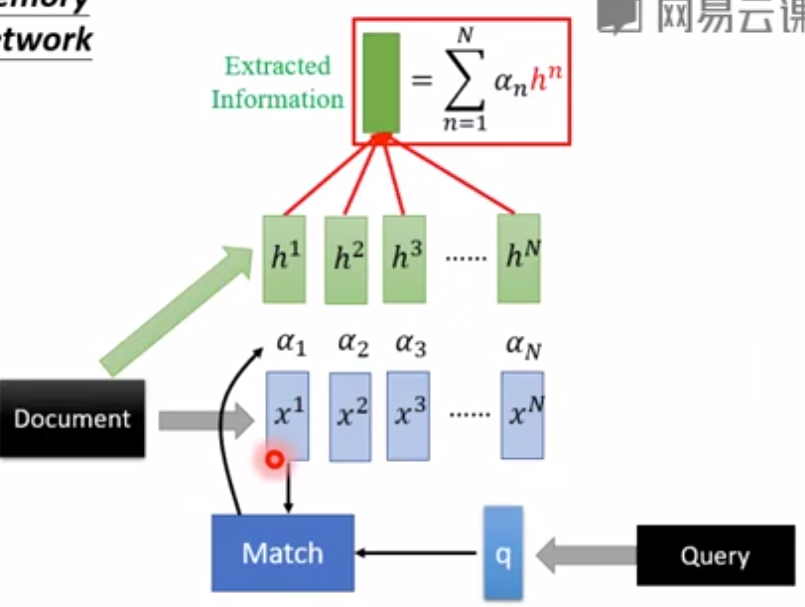
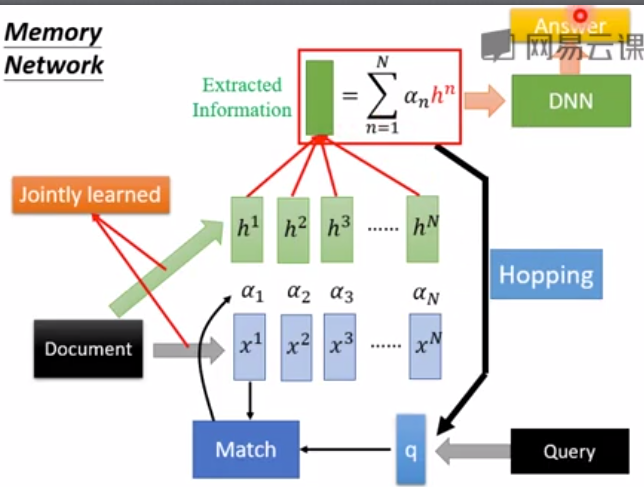
notes from li hong yi

diff --git a/Chapter8/7Strategies/1BatchNormalization.md b/Chapter8/7Strategies/1BatchNormalization.md
@@ -1,6 +1,4 @@
-> **[success] 批标准化的原理，from Ag**  
-对于只有一层的逻辑回归模型，对[输入的标准化](https://windmissing.github.io/Bible-DeepLearning/Chapter8/0Optimization.html)可以加速模型的学习。  
-对于有很多的DL模型，对中间结果z做标准化，也能起到类似的效果。  
+# 非常深的网络存在的问题
 
 批标准化~{cite?}是优化深度神经网络中最激动人心的最新创新之一。
 实际上它并不是一个优化算法，而是**一个自适应的重参数化的方法**，试图解决训练**非常深的模型**的困难。
@@ -12,7 +10,10 @@ w更新算法是在假设其它层w不变的情况下计算某一层的$\Delta w
 相邻层之间w的相互作用对最终结果有比较大的影响。  
 
 在其他层不改变的假设下，梯度用于如何更新每一个参数。
-在实践中，我们同时更新所有层。
+在实践中，我们同时更新所有层。  
+> **[success]**  
+![](/assets/images/Chapter8/9.png)  
+
 当我们进行更新时，可能会发生一些意想不到的结果，这是因为许多组合在一起的函数同时改变时，计算更新的假设是其他函数保持不变。
 举一个简单的例子，假设我们有一个深度神经网络，每一层只有一个单元，并且在每个隐藏层不使用激活函数：$\hat{y} = xw_1 w_2 w_3 \cdots w_l$。
 此处，$w_i$表示用于层$i$的权重。层$i$的输出是$h_i = h_{i-1} w_i$。
@@ -38,7 +39,7 @@ $$
 因此对于$n>2$的情况，建立$n$阶优化算法似乎是无望的。
 那么我们可以做些什么呢？
 
-<!-- % -- 309 -- -->
+# 引入批标准化方法
 
 批标准化提出了一种几乎可以重参数化所有深度网络的优雅方法。
 重参数化显著减少了多层之间协调更新的问题。  
@@ -48,6 +49,10 @@ $$
 
 批标准化可应用于网络的任何输入层或隐藏层。
 设$H$是需要标准化的某层的小批量激活函数，排布为设计矩阵，每个样本的激活出现在矩阵的每一行中。  
+> **[success]**  
+这里是不是翻译有问题，H不是一个函数，而是一个值。  
+H可以是计算出来的z或者a。  
+Ag建议是对z做batch norm。  
 
 为了标准化$H$，我们将其替换为
 $$
@@ -57,16 +62,15 @@ H' = \frac{H - \mu}{\sigma},
 $$
 
 其中$\mu$是包含每个单元均值的向量，$\sigma$是包含每个单元标准差的向量。
-此处的算术是基于广播向量$\mu$和向量$\sigma$应用于矩阵$H$的每一行。  
-> **[warning]**  问：H的每个元素都是函数，函数怎么会有均值和标准差？Ag视频中是对z做标准化，z和矩阵H是什么关系？    
+此处的算术是基于广播向量$\mu$和向量$\sigma$应用于矩阵$H$的每一行。    
 
 在每一行内，运算是逐元素的，因此$H_{i,j}$标准化为减去$\mu_j$再除以$\sigma_j$。  
 > **[success]**  
-$$
-H'_{ij} = \frac{H_{ij}-\mu_j}{\sigma_j}
-$$
+![](/assets/images/Chapter8/10.png)  
 
 网络的其余部分操作$H'$的方式和原网络操作$H$的方式一样。
+
+## 训练阶段
 
 在训练阶段，  
 $$
@@ -94,9 +98,11 @@ $\delta$用于防止分母为0
 这是批标准化方法的一个重大创新。
 以前的方法添加代价函数的惩罚，以鼓励单元标准化激活统计量，或是在每个梯度下降步骤之后重新标准化单元统计量。
 前者通常会导致不完全的标准化，而后者通常会显著地消耗时间，因为学习算法会反复改变均值和方差而标准化步骤会反复抵消这种变化。  
-> **[warning]** 后者和现在的方法有什么区别？  
+> **[warning]** 后者和现在的方法有什么区别？后者是在前向传播的过程中做标准化，而现在的方法是在反向传播中做标准化？    
 
 批标准化重参数化模型，以使一些单元在定义上就总是标准化的，巧妙地回避了这两个问题。
+
+## 测试阶段
 
 在测试阶段，$\mu$和$\sigma$可以被替换为训练阶段收集的运行均值。
 这使得模型可以对单一样本评估，而无需使用定义于整个小批量的$\mu$和$\sigma$。
@@ -105,6 +111,10 @@ $\delta$用于防止分母为0
 训练时，批标准化公式中所使用的均值和方差都是基于一个batch计算的。  
 但在测试阶段，如果只有一个测试用例，怎么批标准化？  
 答：基于指数衰减平均的方法来求测试用例的均值和方差。  
+
+# 效果
+
+## 优点：更易学习
 
 回顾例子$\hat{y} = x w_1 w_2 \cdots w_l$，我们看到，我们可以通过标准化$h_{l-1}$很大程度地解决了学习这个模型的问题。
 假设$x$采样自一个单位高斯分布，
@@ -119,6 +129,16 @@ $\delta$用于防止分母为0
 这些情况都是非常罕见的。
 没有标准化，几乎每一个更新都会对$h_{l-1}$的统计量有着极端的影响。
 因此，批标准化显著地使得模型更易学习。
+
+**批标准化的优点**：  
+（1）使学习更快。由于没有Covariate Shift问题，因为可以使用比较大的learning rate  
+（2）使网络更深  
+（3）less梯度消失/爆炸问题，对sigmoid类的激活函数尤其有效。  
+（4）受初始化的影响变小  
+（5）有一点点对抗overfitting的效果（顺便的作用）。  
+
+## 缺点：底层网络没有用
+
 在这个示例中，容易学习的代价是使得底层网络没有用。  
 > **[warning]** 使得底层网络没有用?  
 
@@ -160,8 +180,8 @@ $\delta$用于防止分母为0
 
 \chap?所述的卷积网络，在特征映射中每个空间位置同样地标准化$\mu$和$\sigma$是很重要的，能使特征映射的统计量在不同的空间位置，仍然保持相同。  
 
+> **[success] 批标准化的原理，from Ag**  
+对于只有一层的逻辑回归模型，对[输入的标准化](https://windmissing.github.io/Bible-DeepLearning/Chapter8/0Optimization.html)可以加速模型的学习。  
+对于有很多的DL模型，对中间结果z做标准化，也能起到类似的效果。  
 > **[success] 流程总结**  
 x --(W, b)--> z --($\beta$, $\gamma$)--> z' --(activate function)--> h ----> 下一层的x  
-**批标准化的优点**：  
-（1）使学习更快  
-（2）使网络更深

diff --git a/Chapter10/Attention.md b/Chapter10/Attention.md
@@ -23,38 +23,72 @@ From 李宏毅
 # Attention-based Model进阶版
 
 Sentence to vector can be jointly trained.  
+![](/assets/images/Chapter10/90.png)   
 
 ## 改进1
 
-![](/assets/images/Chapter10/90.png)   
 Document产生2个向量，分别是x和h。  
 第4步使用x计算match score，用于决定从哪些向量抽取信息。  
-第5步使用h生成最终被抽取的信息。  
+第5步使用h生成最终被抽取的信息。$\sum_i\alpha_i h_i$   
 
-## 改进2
-可读可写模型，58'21''，又叫Neural Turing Machine  
+## 改进2 hopping
 
-## 阅读理解
+根据当前的结果生成新的问题向量q  
+基于新的q再计算答案  
 
-### 文本QA
-1. 通过Semantic分析，将每个句子转成一个向量  
-2. 输入一个问题，由reading head controller决定，哪个句子与问题相关  
-3. 把相关的句子读进模型，产生output
-59'59''
+hopping可以做多次，hopping的次数可以是人为决定，也可以Machine自己决定ReasoNet。  
 
-### 视觉QA
+## 应用
 
+视觉问答  
 1. 模型读入一张图  
 2. 通过CNN，将每个小区域转成一个向量  
 3. 输入一个问题，由reading head controller决定，哪个区域与问题相关  
 4. 读入相关的区域，产生output
-1:02'36''
 
-### 语音QA
+文本QA
+1. 通过Semantic分析，将每个句子转成一个向量  
+2. 输入一个问题，由reading head controller决定，哪个句子与问题相关  
+3. 把相关的句子读进模型，产生output
 
-例如托福听力测试  
-1:04'17''  
-将语音识别、句义分析、attention的综合运用
+语音QA
+1. 例如托福听力测试  
+2. 将语音识别、句义分析、attention的综合运用  
+
+# Attention-based Model升级版（可读可写）
+
+![](/assets/images/Chapter10/91.png)   
+
+## Turing简化版
+
+![](/assets/images/Chapter10/92.png)   
+k: attention weight  
+e: 要清空的东西，attention越多的地方，清得越多  
+m：原来database里面的值  
+a：要放入的新的信息  
+$$
+m_2^i = m_1^i - \hat \alpha^i e \odot m_1 ^i + \hat \alpha^ia
+$$
+
+## Truing完整版
+
+又叫Neural Turing Machine  
+太复杂了，不想看  
+
+## Stack RNN
+
+![](/assets/images/Chapter10/93.png)   
+1. 假设memory中的值都以stack的形式存储  
+2. 读入stack的前几个值（相当于默认attention在前几个值上）  
+3. f输出三个值a1, a2, a3  
+另对原信息定义以下三个操作，每个操作分别基于原始信息做改变，分别得到向量v1, v2, v3  
+- Push：把Information放入Stack  
+- Pop：把stack顶值丢掉  
+- Nothing：不变
+v = v1 * a1 + v2 * a2 + v3 * a3  
+
+
+
 
 ---------------------------------------------------------
 

diff --git a/GAN/Condition.md b/GAN/Condition.md
@@ -1,0 +1,68 @@
+# 根据Text生成Image
+
+## 传统的监督学习方法
+
+![](/assets/images/GAN/1.png)  
+
+存在的问题：  
+同一个输入在database中可能同时对应多种输出。  
+训练的结果会输入各种可能的平均。所致结果很糊而不伦不类。  
+
+## Conditional GAN的学习方法
+
+生成网络G和鉴别网络D：  
+![](/assets/images/GAN/2.png)  
+
+存在的问题：  
+G只要产生出足够高质量的图像，就可以骗过D。但这个高质量的图像很可能入输入的条件无关。  
+高质量但与输入无关的图像也应该是false的图像。现在D无法鉴别这种情况。  
+最后G会生成高质量但无视输入的图像。  
+
+## 改进的Conditional GAN
+
+改进方法：  
+网络D的输入同时考虑G的输入c和G的输出x。  
+D的判断G输出是否合理的标准有：  
+（1）x是否高质量  
+（2）c和x是否match
+
+定义一个样本为{c, x}对，其中c是输入的条件，这里就是文本，x是生成的目标，这里就是指图像。  
+- part 1 训练D
+1. 从database中sample出m个positive样本。  
+2. 随机生成m个noise图像，配上step1中positive样本的文字，得到的是m个负样本。  
+3. 在从database中再sample出m个真实图像，配上step1中positive样本的文字，又得到的是m个负样本。  
+4. 更新D的参数以最大化：  
+V = 第1组样本的平均分 + （1-第2组样本的平均分） + （1-第3组样本的平均分）   
+- part 2 训练G  
+5. 生成m个随机图像z  
+6. 从database中随机sample出m个文本c  
+7. 更新G的参数，只(c, z)在D中的分数越高越好
+
+网络D的两种结构：  
+![](/assets/images/GAN/3.png)  
+
+## Stack GAN
+
+先生成小张图，再根据小张图生成大张图  
+
+# 根据Image生成Image
+
+例子：  
+![](/assets/images/GAN/4.png)  
+
+## 传统的监督学习方法
+
+同text to Image  
+
+## 条件GAN  
+
+同text to Image  
+
+## patch GAN
+
+当要生成的image很大时，让D每次只检查image的一小块。  
+
+# 其它应用
+
+用于语音增强  
+用于vedio生成  

diff --git a/SUMMARY.md b/SUMMARY.md
@@ -18,6 +18,7 @@
         * [6.3.1 ReLU及其扩展](Chapter6/3Hidden/1ReLU.md)
         * [6.3.2 logistic sigmoid与双曲正切函数](Chapter6/3Hidden/2SigmoidTanh.md)
         * [6.3.3 其他隐藏单元](Chapter6/3Hidden/3Other.md)
+        * [李宏毅补充 SELU](Chapter6/SELU.md)
     * [6.4 架构设计](Chapter6/4Architecture.md)
     * [6.5 反向传播和其他的微分算法](Chapter6/5Backprop/0Introduction.md)
         * [6.5.1 计算图](Chapter6/5Backprop/1ComputationalGraphs.md)
@@ -50,7 +51,6 @@
     * [李宏毅补充 Zero-Shot Training](Chapter7/ZeroShot.md)
     * [李宏毅补充 深度强化学习](Chapter7/Reinforce.md)
     * [李宏毅补充 深度自编码器](Chapter7/AutoEncoder.md)
-    * [李宏毅补充 深度生成模型](Chapter7/Generative.md)
 * [第8章 深度模型中的优化](Chapter8/0Optimization.md)
     * [8.1 学习和纯优化有什么不同](Chapter8/1Difference/0Difference.md)
         * [8.1.1 经验风险最小化](Chapter8/1Difference/1EmpiricalRiskMinimization.md)
@@ -98,6 +98,7 @@
     * [Ag补充  图像的定位分类问题](Chapter9/ClassificationWithLocalization.md)
     * [Ag补充 人脸识别问题](Chapter9/FaceDetection.md)
     * [Ag补充 风格迁移](Chapter9/Style.md)
+    * [李宏毅补充 Highway Network](Chapter9/Highway.md)
 * [第10章 序列建模：循环和递归网络](Chapter10/Introduction.md)
     * [10.1 展开计算图](Chapter10/1Unfolding.md)
     * [10.2 循环神经网络](Chapter10/2RNN/0RNN.md)
@@ -139,4 +140,9 @@
         * [11.4.1 手动选择超参数](Chapter11/4Hyperparameters/1Manual.md)
         * [11.4.3 网络搜索](Chapter11/4Hyperparameters/1Manual.md)
         * [11.4.4 随机搜索](Chapter11/4Hyperparameters/1Manual.md)
-    * [11.5 调试策略](Chapter11/5Debug.md)
+    * [11.5 调试策略](Chapter11/5Debug.md)  
+* 李宏毅补充 GAN
+    * [深度生成模型](GAN/Generative.md)
+    * [条件生成对抗网络](GAN/Condition.md)
+    * [非监督条件生成](GAN/unsupervised.md)
+    * [GAN的理论基础](GAN/Thoery.md)

diff --git a/Chapter9/Highway.md b/Chapter9/Highway.md
@@ -1,0 +1,31 @@
+# GRU VS Highway Netword  
+
+Highway Network基于GRU对Unit做了一些改进：  
+
+- GRU  
+![](/assets/images/Chapter9/34.png)   
+
+- Highway Network Unit  
+![](/assets/images/Chapter9/35.png)   
+
+主要改进为：  
+1. 去掉 Input $x^t$和Output $y^t$，只有第一个Unit有Input，最后一个Unit有Output  
+2. 输入$h^t$换成$a^{t-1}$  
+3. 去掉reset gate，保证$a^{t-1}$一定能进入下一个step  
+
+Highway Network Unit的计算过程：  
+$$
+\begin{aligned}
+h' = \sigma(W a^{t-1})  \\
+z = \sigma(W' a^{t-1})  \\
+a^t = z \odot a^{t-1} + (1-z)\odot h'
+\end{aligned}
+$$
+
+这相当于在layer方向增加gate，以达到使layer更深的目的。  
+如果只接将z设置成0.5，就成了[残差网络](https://windmissing.github.io/Bible-DeepLearning/Chapter9/ResNet.html)。  
+![](/assets/images/Chapter9/36.png)  
+
+Highway Network可以看作是Network自动学到要有多少hidden layer。  
+![](/assets/images/Chapter9/37.png)   
+根据data决定实际使用几层layer。  

diff --git a/Chapter6/3Hidden/SELU.md b/Chapter6/3Hidden/SELU.md
@@ -1,0 +1,20 @@
+SELU是一种自带[Normalization](https://windmissing.github.io/Bible-DeepLearning/Chapter8/7Strategies/1BatchNormalization.html)效果的Unit。  
+
+ELU = Exponential Linear Unit  
+SELU = Scaled ELU  
+![](/assets/images/Chapter6/23.png)  
+
+$$
+a = 
+\begin{cases}
+\lambda z && z\ge0 \\
+\lambda\alpha(e^z-1) && z < 0
+\end{cases}
+$$
+
+$\alpha$和$\lambda$都是某个固定值。  
+
+问：为什么说SELU自带Normalization功能？  
+答：假设x的均值为0，方差为1，那么经过z=wx, a=SELU(z)的运算之后，得到的a也是均值为0，方差为1。  
+
+**以上只是SELU的简化版。真正的RELU更复杂，可以让任意输入朝Normalization演化**。    

diff --git a/Chapter8/0Optimization.md b/Chapter8/0Optimization.md
@@ -25,6 +25,10 @@
 > **正则化输入**  
 > 这一段内容是Ag的视频课上讲的，不知道放哪，就放这里了。  
 > 输入数据的正则化 = 零均值化 + 方差归一化  
+$$
+x_i^r = \frac{x_i^r - \mu_i}{\sigma_i}
+$$
+
 > ![](/assets/images/Chapter7/12.png)  
 > 优点：可以加速训练  
 > 注意：训练集做计算出来的用于归一化的均值和方差要记下来，测试集不能使用自己的均值和方差，而应该使用训练集的均值和方差。  

diff --git a/GAN/unsupervised.md b/GAN/unsupervised.md
@@ -1,0 +1,13 @@
+应用：风格转换  
+
+这种类型的Task没有原风格与生成风格的数据对，只能用无监督学习。  
+
+# Direct Transformation
+
+![](/assets/images/GAN/5.png)  
+
+这种方法只能做小的改动，例如文字、颜色等  
+
+# Projection to Common Space
+
+![](/assets/images/GAN/6.png)  
